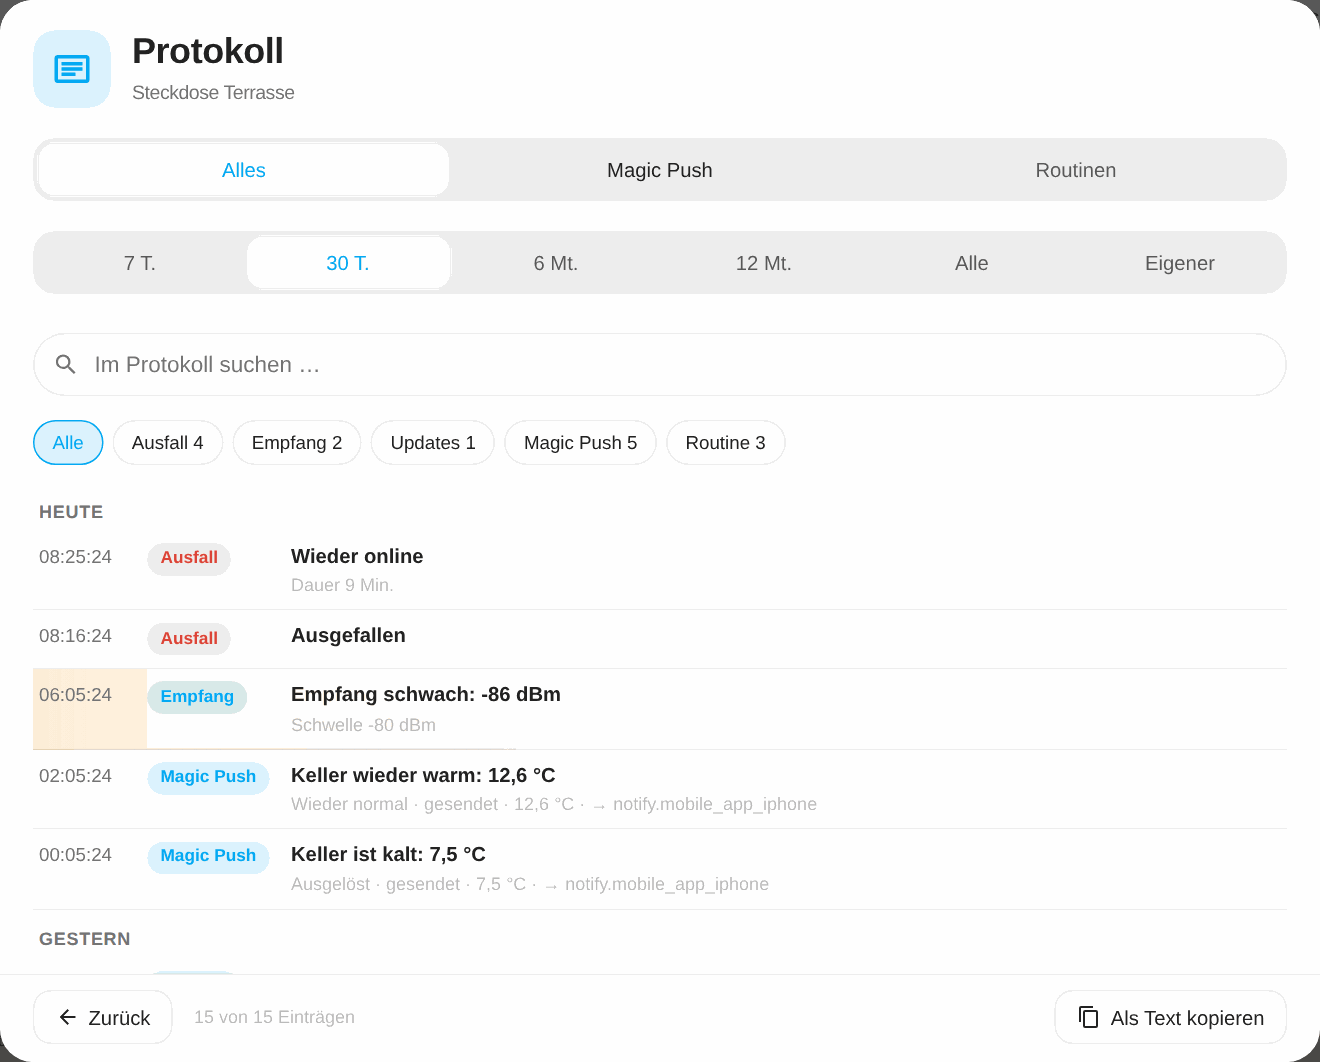
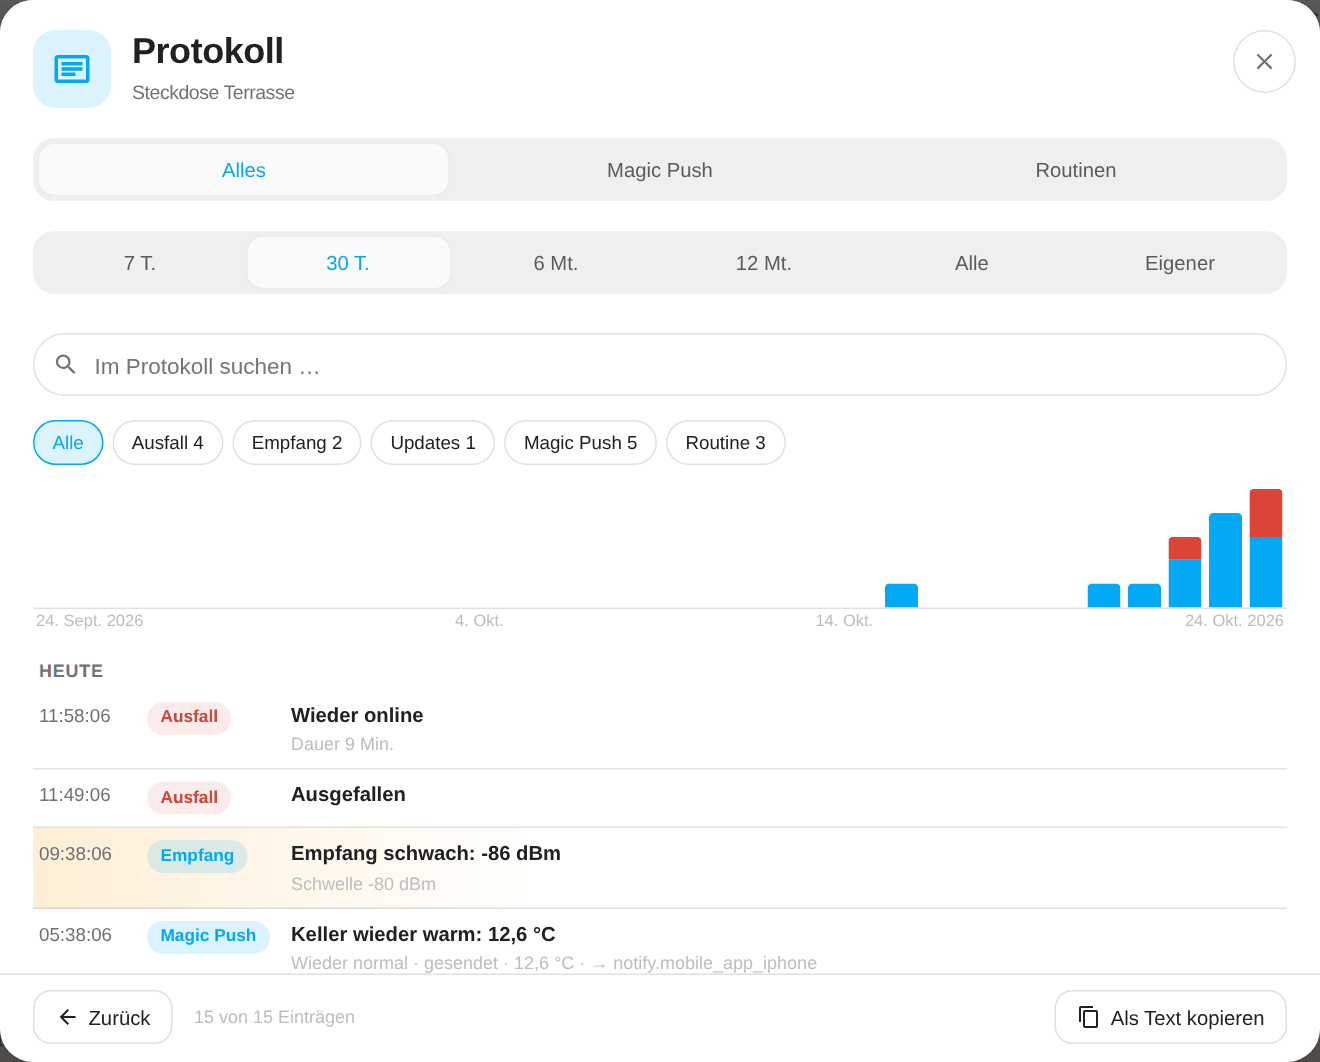
2.126.0: Diagramm in der Liste "Alles" des Protokolls
- devicelog.query liefert step und buckets der gezeigten Einträge (folgt Chip und Suche), Störungen (Ausfall, Warnung, Fehler, fehlgeschlagene Meldung oder Lauf) als "bad"
- Panel: Balkendiagramm über der Liste "Alles", ein Tipp auf einen Balken setzt den Zeitraum auf diesen Tag
- Tests: test_pushlog (Diagramm), Suite devicelog, Simulator; README-Bilder des Protokolls neu; CHANGELOG DE/EN, README DE/EN, HANDOVER, PANEL_VERSION 307

Claude-Session: https://claude.ai/code/session_01U1q7hu4Br2u4E6fFdEJMgU

diff --git a/tests/panel/sim/ha-sim.html b/tests/panel/sim/ha-sim.html
@@ -1266,7 +1266,20 @@
           for (const e of all) counts0[e.cat] = (counts0[e.cat] || 0) + 1;
           const needle0 = String(msg.q || "").trim().toLowerCase();
           const shown0 = all.filter((e) => (!msg.filter || e.cat === msg.filter) && (!needle0 || JSON.stringify(e).toLowerCase().includes(needle0)));
-          return { counts: counts0, total: shown0.length, all: all.length, entries: shown0.slice(msg.offset || 0, (msg.offset || 0) + (msg.limit || 100)), oldest: all.length ? all[all.length - 1].at : null, until: until0, now: now0 };
+          // Diagramm (2.126.0): Einträge der gezeigten Liste je Tag, bei langen Zeiträumen je Woche (wie devicelog.query)
+          const first0 = msg.since ?? (all.length ? all[all.length - 1].at : until0);
+          const week0 = (until0 - first0) / 86400 > 120;
+          const d0 = new Date(first0 * 1000); d0.setHours(0, 0, 0, 0);
+          if (week0) d0.setDate(d0.getDate() - ((d0.getDay() + 6) % 7));
+          const buckets0 = [];
+          for (let d = new Date(d0); d.getTime() / 1000 <= until0 && buckets0.length < 400; d.setDate(d.getDate() + (week0 ? 7 : 1))) buckets0.push({ t: d.getTime() / 1000, n: 0, bad: 0 });
+          const bad0 = (e) => (e.source === "avail" ? e.k === "offline" : e.level === "warning" || e.level === "error" || e.res === "failed" || e.k === "failed" || e.k === "missed");
+          for (const e of shown0) {
+            let i = -1;
+            for (let k = 0; k < buckets0.length && buckets0[k].t <= e.at; k++) i = k;
+            if (i >= 0) { buckets0[i].n++; if (bad0(e)) buckets0[i].bad++; }
+          }
+          return { step: week0 ? "week" : "day", buckets: buckets0, counts: counts0, total: shown0.length, all: all.length, entries: shown0.slice(msg.offset || 0, (msg.offset || 0) + (msg.limit || 100)), oldest: all.length ? all[all.length - 1].at : null, until: until0, now: now0 };
         }
         const rows = msg.kind === "magic" ? (window.__magic?.rules || []) : (window.__routines?.list || []);
         const mine = msg.item_id ? rows.filter((r) => r.id === msg.item_id) : rows.filter((r) => !msg.device_id || r.device_id === msg.device_id);

diff --git a/custom_components/device_panel/panel/protocol.js b/custom_components/device_panel/panel/protocol.js
@@ -715,7 +715,7 @@ export class ProtocolUi {
     }
     const err = s.error ? `<div class="dlg-error">${this.esc(t("prError", s.error))}</div>` : "";
     const note = d.oldest ? `<p class="pr-note">${this.esc(t("prOldest", this.host._fmtDateY(d.oldest)))} ${this.esc(t("prAllNote"))}</p>` : `<p class="pr-note">${this.esc(t("prAllNote"))}</p>`;
-    return `${err}<div class="pr-list" role="list">${rows}</div>${empty}${more}${note}`;
+    return `${err}${this.chart(d)}<div class="pr-list" role="list">${rows}</div>${empty}${more}${note}`;
   }
 
   renderFoot() {

diff --git a/custom_components/device_panel/devicelog.py b/custom_components/device_panel/devicelog.py
@@ -15,9 +15,11 @@ from typing import Any
 
 from homeassistant.core import HomeAssistant
 from homeassistant.helpers import device_registry as dr
+from homeassistant.util import dt as dt_util
 
 from . import activity
 from .const import DATA_AVAILABILITY, DATA_MAGIC, DATA_PROTOCOL, DATA_PUSHLOG, DATA_ROUTINES
+from .protocol import CHART_WEEKS_MAX, WEEK_FROM_DAYS, _buckets
 
 # Kategorien des Panel-Logs, die ein Gerät betreffen können (Magic Push und Routinen kommen aus den Protokollen)
 EVENT_CATS = ("outage", "battery", "charge", "signal", "updates", "new", "push")
@@ -133,6 +135,18 @@ def _text(e: dict[str, Any]) -> str:
     return (" ".join(str(e.get(k, "")) for k in keys) + " " + " ".join(str(push.get(k, "")) for k in ("title", "body", "target"))).lower()
 
 
+def _is_bad(e: dict[str, Any]) -> bool:
+    """Eintrag für das Diagramm als Störung zählen: Warnung oder Fehler, Ausfall, fehlgeschlagene Meldung, verpasster oder fehlgeschlagener Lauf."""
+    if e.get("source") == "avail":
+        return e.get("k") == "offline"
+    return (
+        e.get("level") in ("warning", "error")
+        or e.get("res") in ("failed", "no_target", "missing")
+        or e.get("k") in ("failed", "missed")
+        or (e.get("push") or {}).get("res") in ("failed", "missing")
+    )
+
+
 def query(
     hass: HomeAssistant,
     device: str | None,
@@ -169,7 +183,14 @@ def query(
         counts[e["cat"]] = counts.get(e["cat"], 0) + 1
     needle = text.strip().lower()
     shown = [e for e in scope if (not cat or e["cat"] == cat) and (not needle or needle in _text(e))]
+    # Diagramm (seit 2.126.0): Einträge je Tag (bei langen Zeiträumen je Woche) der gezeigten Liste, also nach Auswahl und Suche; ohne Anfang ab dem ältesten
+    first = since if since is not None else min((e["at"] for e in scope), default=until)
+    tz = dt_util.get_default_time_zone()
+    step_days = 7 if (until - first) / 86400 > WEEK_FROM_DAYS else 1
+    buckets = _buckets(shown, max(first, until - CHART_WEEKS_MAX * 7 * 86400) if step_days == 7 else first, until, step_days, tz, _is_bad)
     return {
+        "step": "week" if step_days == 7 else "day",
+        "buckets": buckets,
         "counts": counts,
         "total": len(shown),
         "all": len(scope),

diff --git a/tests/test_pushlog.py b/tests/test_pushlog.py
@@ -203,3 +203,20 @@ async def test_system_query_levels_cats_and_debug(hass: HomeAssistant, setup, ha
     await client.send_json({"id": 1, "type": f"{DOMAIN}/protocol_get", "kind": "system", "filter": "error", "cat": "system"})
     result = (await client.receive_json())["result"]
     assert result["total"] == 1 and result["entries"][0]["source"] == "system" and "debug" in result and "until" in result
+
+
+async def test_devicelog_chart_follows_the_chip_and_marks_faults(hass: HomeAssistant, setup) -> None:  # noqa: F811
+    """Diagramm in "Alles" (2.126.0): Einträge je Tag der gezeigten Liste, Störungen (Ausfall, Warnung, Fehler) als "bad"."""
+    from custom_components.device_panel.const import DATA_AVAILABILITY
+
+    dev = _device(hass, "Lampe")
+    now = time.time()
+    hass.data[DATA_AVAILABILITY]._events = {dev.id: [[now - 5 * 86400, 1], [now - 2 * 86400, 0], [now - 2 * 86400 + 600, 1]]}
+    activity.record(hass, "warning", "battery", "battery_new", "Lampe", dev.id, level="9 %")
+    out = devicelog.query(hass, dev.id, since=now - 7 * 86400, until=now + 5)
+    assert out["step"] == "day" and sum(b["n"] for b in out["buckets"]) == out["total"] == 3
+    assert sum(b["bad"] for b in out["buckets"]) == 2  # Ausfall und Warnung; die Rückkehr zählt nicht
+    only = devicelog.query(hass, dev.id, since=now - 7 * 86400, until=now + 5, cat="battery")
+    assert sum(b["n"] for b in only["buckets"]) == 1 and sum(b["bad"] for b in only["buckets"]) == 1
+    long = devicelog.query(hass, dev.id, since=None, until=now + 5)
+    assert long["step"] == "day" and long["buckets"]

diff --git a/custom_components/device_panel/protocol.py b/custom_components/device_panel/protocol.py
@@ -267,7 +267,7 @@ class Protocol:
         }
 
 
-def _buckets(scope: list[dict[str, Any]], since: float, until: float, step_days: int, tz: Any) -> list[dict[str, Any]]:
+def _buckets(scope: list[dict[str, Any]], since: float, until: float, step_days: int, tz: Any, is_bad: Any = None) -> list[dict[str, Any]]:
     """Dichte Liste der Tage (oder Wochen ab Montag) im Zeitraum mit der Zahl der Einträge und der davon problematischen."""
     first = dt_util.as_local(dt_util.utc_from_timestamp(since)).astimezone(tz).replace(hour=0, minute=0, second=0, microsecond=0)
     if step_days == 7:
@@ -286,6 +286,6 @@ def _buckets(scope: list[dict[str, Any]], since: float, until: float, step_days:
         i = bisect.bisect_right(keys, e["at"]) - 1
         if 0 <= i < len(out):
             out[i]["n"] += 1
-            if e.get("res") in ("failed", "no_target") or e.get("k") in ("failed", "missed"):
+            if (is_bad(e) if is_bad is not None else e.get("res") in ("failed", "no_target") or e.get("k") in ("failed", "missed")):
                 out[i]["bad"] += 1
     return out

diff --git a/custom_components/device_panel/const.py b/custom_components/device_panel/const.py
@@ -13,7 +13,7 @@ PANEL_HTML_FILE = "panel.html"
 STATIC_URL_PATH = f"/{DOMAIN}"
 PANEL_STATIC_URL_PATH = f"{STATIC_URL_PATH}/panel"
 # Cache-Buster: bei jeder Änderung unter panel/ von Hand erhöhen.
-PANEL_VERSION = "306"
+PANEL_VERSION = "307"
 PANEL_PAGE_URL = f"{PANEL_STATIC_URL_PATH}/{PANEL_HTML_FILE}?v={PANEL_VERSION}"
 
 # Mitgeliefertes Bild für Push-Meldungen (Companion-App, "icon_url"), wie in

diff --git a/docs/HANDOVER.md b/docs/HANDOVER.md
@@ -3,7 +3,9 @@
 Einstieg für jede neue Claude-Code-Session. Zuerst diese Datei lesen, dann
 `CLAUDE.md`, `docs/CONCEPT.md`, `docs/LEARNINGS.md`, `docs/DESIGN.md`.
 
-## Stand (2.125.0, Protokoll und Log vereint; davor 2.124.0 Meldungsprotokoll)
+## Stand (2.126.0, Diagramm in "Alles"; davor 2.125.0 Protokoll und Log vereint)
+
+- Diagramm in der Liste "Alles" (2.126.0): `devicelog.query` liefert `step`/`buckets` aus den gezeigten Einträgen (`protocol._buckets` mit `is_bad`; Störung = Ausfall, Warnung/Fehler, fehlgeschlagene Meldung/Lauf); `protocol.js` `allHtml` zeichnet `chart(d)` (Balken, Tipp setzt den Zeitraum). Tests: `test_pushlog.py::test_devicelog_chart_follows_the_chip_and_marks_faults`, Suite `devicelog`.
 
 - Protokoll und Log in einem Fenster (2.125.0, Mockups `docs/mockups/protocol-merge-v1`, A/A): `protocol.js` hat vier Reiter (`TABS` all/magic/routine/system; "System" nur ohne `deviceId`). Reiter "System": `protocol_get` kind "system" -> `devicelog.system_query` (Einträge des Panel-Logs ohne Gerät und alle Debug-Einträge; Zahlen je Stufe und Kategorie wie die Chips; `filter` = Stufe, neues `cat`); Chips Stufe (`data-pr-filters`) und Kategorie (`data-pr-items`), Debug-Zeile (`data-pr-debug-row`, Schalter ruft `device_panel/set_log`), Leeren (`clear_log`, mit `_askConfirm`), Nachfrage alle 4 s (`startPoll`/`pollOnce`, nicht bei `_dlgBusy`). Das alte Fenster `_renderLogFrame`/`_bindLog`/`get_log`-Polling im Panel ist entfernt (`get_log`/`set_log`/`clear_log` bleiben im Backend); `_openLog(kind="all")` öffnet das Protokoll; App-Kennung `log` bleibt, Texte `app_log` = "Protokoll"/"History". Einstellungen › Speicher: Knopf `data-set="open-syslog"` öffnet den Reiter "System". Tests: Suite `system` (ersetzt `log`), `busy`, `launcher`, `searchclear` angepasst; `test_pushlog.py::test_system_query_levels_cats_and_debug`.
 - Davor: 2.124.0 (Meldungsprotokoll `push_log.py`, getaggt), 2.123.0 (Shelly-Fehler, ohne Tag), 2.122.0 (Sensoren, getaggt).

diff --git a/README.de.md b/README.de.md
@@ -82,7 +82,7 @@ Der Batterie-Verlauf reicht bis zu 12 Monate zurück, mit markiertem Batteriewec
 
 ### Protokoll eines Geräts
 
-Ein Fenster mit allem zu einem Gerät: Ausfälle und Rückkehr mit der Dauer, Batterie, Laden, Empfang, Updates, neue Geräte, Push, Meldungen von Magic Push und Läufe von Routinen, nach Tagen. Chips filtern nach Art, ein Tipp auf einen Eintrag wie "wieder online nach 9 Min.: Meldung wird gesendet" zeigt die gesendete Meldung (Titel, Text, Ziel und Ergebnis), ein Tipp auf eine Magic-Push-Zeile zeigt die Meldung, ein Tipp auf eine Routine-Zeile ihren Trace. Die Reiter "Magic Push" und "Routinen" behalten ihre Auswertung mit Kennzahlen und Diagramm. Es öffnet mit "Protokoll" oben rechts im Geräte-Popup und über den Kopf der Übersichten von Magic Push und Routinen für alle Geräte.
+Ein Fenster mit allem zu einem Gerät: Ausfälle und Rückkehr mit der Dauer, Batterie, Laden, Empfang, Updates, neue Geräte, Push, Meldungen von Magic Push und Läufe von Routinen, nach Tagen. Ein Balkendiagramm zeigt die Einträge je Tag (bei langen Zeiträumen je Woche, Störungen rot) und folgt den Chips und der Suche; ein Tipp auf einen Balken setzt den Zeitraum auf diesen Tag. Chips filtern nach Art, ein Tipp auf einen Eintrag wie "wieder online nach 9 Min.: Meldung wird gesendet" zeigt die gesendete Meldung (Titel, Text, Ziel und Ergebnis), ein Tipp auf eine Magic-Push-Zeile zeigt die Meldung, ein Tipp auf eine Routine-Zeile ihren Trace. Die Reiter "Magic Push" und "Routinen" behalten ihre Auswertung mit Kennzahlen und Diagramm. Es öffnet mit "Protokoll" oben rechts im Geräte-Popup und über den Kopf der Übersichten von Magic Push und Routinen für alle Geräte.
 
 | Alles (Liste nach Tagen) | Magic Push (Auswertung) |
 |---|---|

diff --git a/README.md b/README.md
@@ -82,7 +82,7 @@ The battery history reaches back up to 12 months, with the battery change marked
 
 ### History of a device
 
-One window with everything about a device: outages and returns with the duration, battery, charging, reception, updates, new devices, push, Magic Push messages and routine runs, by day. Chips filter by kind, a tap on a Magic Push row shows the message, a tap on a routine row its trace, and a tap on an entry like "back online after 9 min.: sending the notification" shows the push that went out (title, text, target and result). The tabs "Magic Push" and "Routines" keep their evaluation with key figures and chart. It opens with "History" at the top right of the device pop-up, and from the header of the overviews of Magic Push and routines for all devices.
+One window with everything about a device: outages and returns with the duration, battery, charging, reception, updates, new devices, push, Magic Push messages and routine runs, by day. A bar chart shows the entries per day (per week for long periods, faults in red) and follows the chips and the search; a tap on a bar sets the period to that day. Chips filter by kind, a tap on a Magic Push row shows the message, a tap on a routine row its trace, and a tap on an entry like "back online after 9 min.: sending the notification" shows the push that went out (title, text, target and result). The tabs "Magic Push" and "Routines" keep their evaluation with key figures and chart. It opens with "History" at the top right of the device pop-up, and from the header of the overviews of Magic Push and routines for all devices.
 
 | All (list by day) | Magic Push (evaluation) |
 |---|---|

diff --git a/CHANGELOG.de.md b/CHANGELOG.de.md
@@ -7,6 +7,19 @@ Alle nennenswerten Änderungen an dieser Integration stehen in dieser Datei.
 Das Format folgt [Keep a Changelog](https://keepachangelog.com/de/1.1.0/),
 die Versionsnummern folgen [Semantic Versioning](https://semver.org/lang/de/).
 
+## [2.126.0] - 2026-10-24
+
+Das Balkendiagramm von Magic Push und Routinen steht jetzt auch in der Liste "Alles" des Protokolls.
+
+### Hinzugefügt
+
+- **Diagramm im Reiter "Alles":** Balken je Tag (bei Zeiträumen über 120 Tage je Woche), Störungen (Ausfall, Warnung, Fehler, fehlgeschlagene Meldung oder Lauf) rot. Es folgt den Chips und der Suche wie die Liste darunter, und ein Tipp auf einen Balken setzt den Zeitraum auf diesen Tag. Über alle Geräte zählt es alle.
+
+### Geändert
+
+- WebSocket `protocol_get` mit Art `all` liefert `step` und `buckets` wie die anderen Arten.
+- **README:** der Abschnitt "Protokoll eines Geräts" nennt das Diagramm; die Printscreens des Protokolls sind neu aufgenommen.
+
 ## [2.125.0] - 2026-10-24
 
 Ein Protokoll statt zwei Fenstern: das Fenster "Log" ist jetzt der Reiter "System" des Protokolls, und die App "Log" heisst "Protokoll".
@@ -4595,6 +4608,7 @@ Erste Vorabversion.
   GitHub Actions für die Prüfungen von HACS und hassfest sowie die Tests.
 
 [2.6.0]: https://github.com/Diegofuego871/ha-device-panel/releases/tag/v2.6.0
+[2.126.0]: https://github.com/Diegofuego871/ha-device-panel/releases/tag/v2.126.0
 [2.125.0]: https://github.com/Diegofuego871/ha-device-panel/releases/tag/v2.125.0
 [2.124.0]: https://github.com/Diegofuego871/ha-device-panel/releases/tag/v2.124.0
 [2.122.0]: https://github.com/Diegofuego871/ha-device-panel/releases/tag/v2.122.0

diff --git a/CHANGELOG.md b/CHANGELOG.md
@@ -7,6 +7,19 @@ All notable changes to this integration are documented in this file.
 The format is based on [Keep a Changelog](https://keepachangelog.com/en/1.1.0/),
 and this project adheres to [Semantic Versioning](https://semver.org/).
 
+## [2.126.0] - 2026-10-24
+
+The bar chart of Magic Push and routines is now also in the list "All" of the history.
+
+### Added
+
+- **Chart in the tab "All":** bars per day (per week for periods over 120 days), faults (outage, warning, error, failed push or run) in red. It follows the chips and the search, like the list below, and a tap on a bar sets the period to that day. Over all devices it counts all of them.
+
+### Changed
+
+- WebSocket `protocol_get` with kind `all` returns `step` and `buckets` like the other kinds.
+- **README:** the section "History of a device" mentions the chart; the screenshots of the history were taken again.
+
 ## [2.125.0] - 2026-10-24
 
 One history instead of two windows: the window "Log" is now the tab "System" of the history, and the app "Log" is called "History".
@@ -4494,6 +4507,7 @@ First pre-release.
   GitHub Actions for HACS/hassfest validation and tests.
 
 [2.6.0]: https://github.com/Diegofuego871/ha-device-panel/releases/tag/v2.6.0
+[2.126.0]: https://github.com/Diegofuego871/ha-device-panel/releases/tag/v2.126.0
 [2.125.0]: https://github.com/Diegofuego871/ha-device-panel/releases/tag/v2.125.0
 [2.124.0]: https://github.com/Diegofuego871/ha-device-panel/releases/tag/v2.124.0
 [2.122.0]: https://github.com/Diegofuego871/ha-device-panel/releases/tag/v2.122.0
